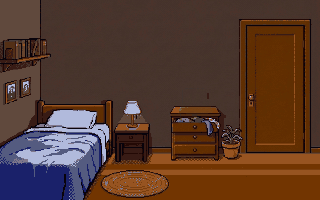
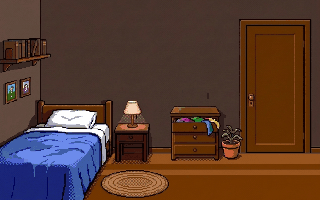
fix(intro): laptop is always the painted one, bedroom keeps its colours, slower walk, 'Front end is down'
- everyone takes the painted laptop from the dresser; the chosen item appears in the hand at that moment (no tiny item sprite)
- VGA bedroom at 192 colours with a palette that keeps small bright things (plant, lampshade, clothes); lossless across its chained edits
- walk: 110 px/s in rooms, 60 px/s in the intro, 6 fps steps; bedroom shot 15 s
- pager copy: Front end is down

Claude-Session: https://claude.ai/code/session_01KRJMM4tMmN6TsQ7ggh1rTa

diff --git a/js/screens/intro.js b/js/screens/intro.js
@@ -86,23 +86,10 @@ export function drawClothes(g, cfg, x, y) {
   for (const [mx, my, k] of HC_MARK_PIXELS) R(HC_MARK[k], 24 + (mx - mx0), -8 + (my - my0), 1, 1);   // the mark, face up
 }
 
-/** What the hero carries, alone: the pixels that differ between the hero with it and without. */
-function heldItem(cfg) {
-  const a = composeHero(cfg, 'idle'), b = composeHero({ ...cfg, hold: 'none' }, 'idle'), px = [];
-  for (let i = 0; i < HERO_W * HERO_H; i++) {
-    if (a[i * 4] !== b[i * 4] || a[i * 4 + 1] !== b[i * 4 + 1] || a[i * 4 + 2] !== b[i * 4 + 2] || a[i * 4 + 3] !== b[i * 4 + 3]) {
-      if (a[i * 4 + 3]) px.push([i % HERO_W, Math.floor(i / HERO_W), `rgb(${a[i * 4]},${a[i * 4 + 1]},${a[i * 4 + 2]})`]);
-    }
-  }
-  if (!px.length) return null;
-  const x0 = Math.min(...px.map((p) => p[0])), y1 = Math.max(...px.map((p) => p[1]));
-  return px.map(([x, y, c]) => [x - x0, y - y1, c]);                 // relative to its left edge and its bottom row
-}
-
 export function createIntroScreen(game) {
   let token = 0, assets = null, shot = 0, t = 0, out = false, done = false;
   let skip = null, onTap = null, sfx = null, titleEl = null;
-  let lastOn = false, clicked = false, heroState = null, item = null;
+  let lastOn = false, clicked = false, heroState = null;
   let fired = new Set(), sounds = [];
 
   function cut(i) { shot = i; t = 0; lastOn = false; clicked = false; heroState = null; fired = new Set(); }
@@ -175,18 +162,15 @@ export function createIntroScreen(game) {
     const h = heroAt(t);
     const e = h.walking ? exitAt(exitPlan({ standX, doorX: m.door.x, floorY: m.floorY, doorY: Number.isFinite(m.door.y) ? m.door.y : m.floorY }), t - WALK_AT) : null;
     const pile = h.outfit === 'pj' && !!m.clothes;         // on the floor until the change puts them on the hero
-    // The room is painted with a laptop on the dresser, and again without it. A hero who carries a laptop gets
-    // the painted one until they take it; any other item is drawn on the bare dresser top instead.
+    // The room is painted with a laptop on the dresser, and again without it: taking it is a cut between the two,
+    // Sierra inventory style. Whatever the hero chose to carry appears in their hand at the same moment.
     const bareRoom = assets.images.get('D_laptop_gone');
-    const painted = !!bareRoom && cfg.hold === 'laptop';
-    const onDresser = !h.holding && !painted && !!m.item && !!item;
     const bare = h.holding ? cfg : { ...cfg, hold: 'none' };
     let plate = 'D_bedroom_vga';
-    if (bareRoom && (h.holding || !painted)) { g.drawImage(bareRoom, 0, 0, 320, 200); plate = 'D_laptop_gone'; }
+    if (bareRoom && h.holding) { g.drawImage(bareRoom, 0, 0, 320, 200); plate = 'D_laptop_gone'; }
     if (e?.doorOpen) { openDoor(g, m); plate = assets.images.get('D_door_open') ? 'D_door_open' : plate; }
     showTitle(ctx, m, h.titled);
     if (pile) drawClothes(g, cfg, m.clothes.x, m.clothes.y);
-    if (onDresser) for (const [dx, dy, c] of item) { g.fillStyle = c; g.fillRect(m.item.x + dx, m.item.y + dy, 1, 1); }
     heroState = { pose: h.pose, outfit: h.outfit, x: standX, visible: h.visible, pile, holding: h.holding, doorOpen: !!e?.doorOpen, plate };
     sound('title', h.titled); sound('rustle', h.visible); sound('step', h.standing); sound('pickup', h.outfit === 'hoodie');
     sound('take', h.holding); sound('door', !!e?.doorOpen); sound('shut', !!e && !e.visible && !e.doorOpen);
@@ -227,7 +211,6 @@ export function createIntroScreen(game) {
     enter(ctx) {
       const mine = ++token;
       assets = null; out = false; done = false; cut(0);
-      item = heldItem(ctx.hero);
       sfx = createSfx(); sfx.unlock();                 // we are inside the Start tap: the one moment a phone lets sound begin
       sounds = [];
       skip = colButton({ id: 'btn-skip', long: 'Skip', short: 'Skip', onClick: finish });

diff --git a/tests/intro-timeline.test.js b/tests/intro-timeline.test.js
@@ -3,10 +3,10 @@ import { SHOTS, frameAt, nextShot, TOTAL_MS, HERO_STEPS, heroAt, FLASH_MS } from
 
 test('shots are the storyboard, in order, with its timings', () => {
   assert.deepEqual(SHOTS.map((s) => s.id), ['dark', 'help', 'asleep', 'arm', 'lit', 'message', 'misery', 'lamp', 'bedroom']);
-  assert.deepEqual(SHOTS.map((s) => s.ms), [3000, 2500, 3000, 1500, 2000, 8000, 2000, 1500, 12000]);
-  assert.equal(TOTAL_MS, 35500);
+  assert.deepEqual(SHOTS.map((s) => s.ms), [3000, 2500, 3000, 1500, 2000, 8000, 2000, 1500, 15000]);
+  assert.equal(TOTAL_MS, 38500);
   assert.equal(SHOTS[1].text, 'Help!');
-  assert.equal(SHOTS[5].text, 'Backend is down. Website is down. Database is down. Get in here! -CTO');
+  assert.equal(SHOTS[5].text, 'Backend is down. Front end is down. Database is down. Get in here! -CTO');
 });
 test('dark room flashes to black', () => { assert.equal(frameAt(0, 0).black, false); assert.equal(frameAt(0, 300).black, true); assert.equal(frameAt(0, 0).image, 'A_room_dark'); });
 test('pager LCD flashes Help! then scrolls the message', () => {
@@ -55,9 +55,10 @@ test('sampled every ms, no shot changes picture more than 4 times a second', () 
 import { exitPlan, exitAt } from '../js/intro/timeline.js';
 test('the way out: across the floor, up to the threshold, door opens, hero gone, door shuts', () => {
   const p = exitPlan({ standX: 158, doorX: 261, floorY: 178, doorY: 153 });
-  assert.ok(p.total > 1500 && p.total < 3500, String(p.total));
+  assert.ok(p.total > 2500 && p.total < 5000, String(p.total));      // 103 px at a stroll, a few steps up, the door
   const a = exitAt(p, 0); assert.deepEqual([a.x, a.y, a.visible, a.doorOpen, a.done], [158, 178, true, false, false]);
   const mid = exitAt(p, p.across / 2); assert.ok(mid.x > 158 && mid.x < 261 && mid.y === 178 && /^walk/.test(mid.pose));
+  assert.ok(p.across >= 103 / 70 * 1000, 'the walk out is a stroll: no faster than 70 px/s');
   const up = exitAt(p, p.across + p.up / 2); assert.equal(up.x, 261); assert.ok(up.y < 178 && up.y > 153);
   const open = exitAt(p, p.across + p.up + 10); assert.deepEqual([open.x, open.y, open.pose, open.visible, open.doorOpen], [261, 153, 'idle', true, true]);
   const gone = exitAt(p, p.across + p.up + p.open + 10); assert.deepEqual([gone.visible, gone.doorOpen, gone.done], [false, true, false]);

diff --git a/js/intro/timeline.js b/js/intro/timeline.js
@@ -3,7 +3,7 @@
 import { flashOn } from './pager.js';
 
 export const FLASH_MS = 500;                          // one on/off cycle; 2Hz is the ceiling for anything that flashes
-const CTO = 'Backend is down. Website is down. Database is down. Get in here! -CTO';
+const CTO = 'Backend is down. Front end is down. Database is down. Get in here! -CTO';
 
 export const SHOTS = [
   { id: 'dark', ms: 3000, image: 'A_room_dark', flash: 'black', beepOnFlash: true },
@@ -14,7 +14,7 @@ export const SHOTS = [
   { id: 'message', ms: 8000, image: 'B_nightstand', lcd: 'marquee', text: CTO },
   { id: 'misery', ms: 2000, image: 'C_misery' },
   { id: 'lamp', ms: 1500, image: 'B_lamp', alt: 'B_lamp_lit', altAt: 700, clickAt: 700 },
-  { id: 'bedroom', ms: 12000, image: 'D_bedroom_vga', hero: true },
+  { id: 'bedroom', ms: 15000, image: 'D_bedroom_vga', hero: true },
 ];
 export const TOTAL_MS = SHOTS.reduce((n, s) => n + s.ms, 0);
 
@@ -59,7 +59,7 @@ export function heroAt(tMs) {
 
 // ---- the way out of the bedroom: across the floor to the door, up to its threshold, through it ----
 // Still limited animation: the door is two stills (shut, open), the hero is there and then is not.
-const AMBLE = 140, AMBLE_UP = 70;                     // px/s: a sleepy walk
+const AMBLE = 60, AMBLE_UP = 40;                      // px/s: a sleepy walk
 const DOOR_OPEN_MS = 350, DOOR_GONE_MS = 300, DOOR_SHUT_MS = 400;
 const STEP = ['walk1', 'walk2', 'walk3', 'walk4'];
 
@@ -71,7 +71,7 @@ export function exitPlan({ standX, doorX, floorY, doorY = floorY }) {
 
 /** Where the hero is tMs into the plan. x is the sprite's left edge, y the row the feet stand on. */
 export function exitAt(p, tMs) {
-  const t = Math.max(0, tMs), flip = p.doorX < p.standX, step = STEP[Math.floor(t / 100) % 4];
+  const t = Math.max(0, tMs), flip = p.doorX < p.standX, step = STEP[Math.floor(t / 170) % 4];
   const at = (x, y, pose, visible, doorOpen, done = false) => ({ x, y, pose, flip, visible, doorOpen, done });
   if (t < p.across) return at(Math.round(p.standX + (p.doorX - p.standX) * (t / p.across)), p.floorY, step, true, false);
   let u = t - p.across;

diff --git a/tests/walk.test.js b/tests/walk.test.js
@@ -2,13 +2,14 @@ import test from 'node:test';
 import assert from 'node:assert/strict';
 import { planWalk, stepWalk, WALK_SPEED } from '../js/engine/walk.js';
 
-test('a full-room crossing takes at most 1.2 s (spec: Interface › Tap to act)', () => {
-  assert.ok(planWalk(0, 292).duration <= 1200, `${planWalk(0, 292).duration} ms`);
-  assert.ok(WALK_SPEED >= 250);
+test('a Sierra stroll, not a sprint: a full room takes about three seconds (Rick, 2026-11-11: "walking is way too fast")', () => {
+  const d = planWalk(0, 292).duration;
+  assert.ok(d >= 2300 && d <= 3500, `${d} ms`);
+  assert.ok(WALK_SPEED >= 85 && WALK_SPEED <= 125);
 });
 
 test('duration from distance and speed', () => {
-  assert.equal(planWalk(0, 120).duration, 400);
+  assert.equal(planWalk(0, 120, { speed: 300 }).duration, 400);
   assert.equal(planWalk(50, 50).duration, 0);
 });
 
@@ -17,17 +18,17 @@ test('direction and flip', () => {
   assert.equal(stepWalk(planWalk(100, 20), 10).flip, true);
 });
 
-test('pose cycles at 10 fps and x interpolates', () => {
-  const p = planWalk(0, 300); // 1000 ms at 300 px/s
+test('pose cycles at 6 fps and x interpolates', () => {
+  const p = planWalk(0, 300, { speed: 300 }); // 1000 ms at 300 px/s
   assert.equal(stepWalk(p, 0).pose, 'walk1');
-  assert.equal(stepWalk(p, 150).pose, 'walk2');
-  assert.equal(stepWalk(p, 350).pose, 'walk4');
-  assert.equal(stepWalk(p, 450).pose, 'walk1');
+  assert.equal(stepWalk(p, 200).pose, 'walk2');
+  assert.equal(stepWalk(p, 520).pose, 'walk4');
+  assert.equal(stepWalk(p, 700).pose, 'walk1');
   assert.equal(stepWalk(p, 500).x, 150);
 });
 
 test('done at the end, idle, exact target', () => {
-  const s = stepWalk(planWalk(0, 300), 1000);
+  const s = stepWalk(planWalk(0, 300, { speed: 300 }), 1000);
   assert.equal(s.done, true); assert.equal(s.pose, 'idle'); assert.equal(s.x, 300);
-  assert.equal(stepWalk(planWalk(0, 300), 5000).x, 300);
+  assert.equal(stepWalk(planWalk(0, 300, { speed: 300 }), 5000).x, 300);
 });

diff --git a/tests/e2e/intro.test.js b/tests/e2e/intro.test.js
@@ -242,8 +242,8 @@ test('the hero stands where the manifest says', async () => {
   await ctx.close();
 });
 
-test('the dresser shows the hero\'s own item: the painted laptop for a laptop, otherwise theirs on a bare top', async () => {
-  for (const [hold, before] of [['laptop', 'D_bedroom_vga'], ['duck', 'D_laptop_gone']]) {
+test('whatever the hero carries, the laptop is on the dresser until it is taken into inventory', async () => {
+  for (const hold of ['laptop', 'coffee']) {
     const ctx = await browser.newContext({ viewport: { width: 844, height: 390 }, deviceScaleFactor: 1, hasTouch: true, isMobile: true });
     const page = await ctx.newPage();
     await page.goto(server.baseURL, { waitUntil: 'load' });
@@ -254,10 +254,10 @@ test('the dresser shows the hero\'s own item: the painted laptop for a laptop, o
     if (!(await page.evaluate(() => !!window.__oq.intro.manifest.images.D_laptop_gone))) { await ctx.close(); return; }   // placeholder art has no such still
     for (let i = 0; i < 8; i++) { await page.waitForTimeout(300); await tapScene(page); }
     await page.waitForFunction(() => window.__oq.intro.hero?.visible && window.__oq.intro.hero.pose === 'situp');
-    assert.equal((await intro(page)).hero.plate, before, hold);
+    assert.equal((await intro(page)).hero.plate, 'D_bedroom_vga', hold);
     await page.waitForFunction(() => window.__oq.intro.hero?.holding === true, null, { timeout: 6000 });
     assert.equal((await intro(page)).hero.plate, 'D_laptop_gone', hold);
-    await page.waitForFunction(() => window.__oq.intro.hero?.doorOpen === true, null, { timeout: 6000 });
+    await page.waitForFunction(() => window.__oq.intro.hero?.doorOpen === true, null, { timeout: 8000 });
     assert.equal((await intro(page)).hero.plate, 'D_door_open', hold);
     await ctx.close();
   }

diff --git a/tests/intro-text.test.js b/tests/intro-text.test.js
@@ -1,7 +1,7 @@
 import test from 'node:test'; import assert from 'node:assert/strict';
 import { GLYPHS, textWidth, drawText } from '../js/intro/font5x7.js';
 import { lcdScale, flashOn, marqueeX, drawLcd } from '../js/intro/pager.js';
-const MSG = 'Backend is down. Website is down. Database is down. Get in here! -CTO';
+const MSG = 'Backend is down. Front end is down. Database is down. Get in here! -CTO';
 test('every character of both LCD strings has a glyph', () => { for (const ch of 'Help!' + MSG) assert.ok(GLYPHS[ch], JSON.stringify(ch)); });
 test('all of printable ASCII has a glyph', () => { for (let c = 32; c < 127; c++) assert.ok(GLYPHS[String.fromCharCode(c)], String(c)); });
 test('glyphs are 7 rows of 5 bits', () => { for (const g of Object.values(GLYPHS)) { assert.equal(g.length, 7); assert.ok(g.every((r) => r >= 0 && r < 32)); } });
@@ -43,7 +43,7 @@ test('marquee text is small enough to show at least eight characters at once', (
 test('static paging: one sentence per page, word-wrapped, at the largest scale that fits', () => {
   const p = lcdPages(MSG, { x: 92, y: 62, w: 136, h: 36 });
   assert.equal(p.scale, 2);
-  assert.deepEqual(p.pages, [['Backend is', 'down.'], ['Website is', 'down.'], ['Database is', 'down.'], ['Get in', 'here! -CTO']]);
+  assert.deepEqual(p.pages, [['Backend is', 'down.'], ['Front end', 'is down.'], ['Database is', 'down.'], ['Get in', 'here! -CTO']]);
   assert.deepEqual(lcdPages('Help!', { x: 92, y: 62, w: 136, h: 36 }), { scale: 4, pages: [['Help!']] });
 });
 test('static paging on a tiny LCD still returns every word', () => {

diff --git a/js/engine/walk.js b/js/engine/walk.js
@@ -1,7 +1,7 @@
 // Walk planning and stepping along the floor line. Pure functions; the screen owns time.
 
-export const WALK_FPS = 10;
-export const WALK_SPEED = 300; // logical px per second — a full 320 px room in ≈1.07 s (spec: ≤ 1.2 s)
+export const WALK_FPS = 6;
+export const WALK_SPEED = 110; // logical px per second — a Sierra stroll: a full 320 px room in about 3 s
 const FRAMES = ['walk1', 'walk2', 'walk3', 'walk4'];
 
 /** @returns {{ fromX: number, toX: number, dir: 1|-1, duration: number }} duration in ms (0 when already there) */

diff --git a/index.html b/index.html
@@ -23,6 +23,6 @@
   <div class="phone" aria-hidden="true"></div>
   <div>Turn your phone sideways to play</div>
 </div>
-<script type="module" src="js/game.js?v=8"></script>
+<script type="module" src="js/game.js?v=9"></script>
 </body>
 </html>

diff --git a/tools/build_intro.py b/tools/build_intro.py
@@ -20,7 +20,9 @@ SOURCES = PLATES + list(EDITS)
 OPTIONAL = {'D_laptop_gone': ['D_bedroom_vga'], 'D_door_open': ['D_laptop_gone', 'D_bedroom_vga']}
 DERIVED = ['C_awake_lit', 'B_lamp_lit']
 MAX_DRIFT = 0.5                     # an edit may remove an object and add a hand; past half the frame it is another picture
-COLOURS = 32
+COLOURS = 32                        # the EGA-style shots
+COLOURS_FOR = {'D_bedroom_vga': 192}   # the VGA bedroom keeps its full palette: at 32 a green plant or a yellow lampshade greys out
+CHANGE_COLOURS_FOR = {'D_bedroom_vga': 32}   # 192 + two chained edits of 32 still fit one 256-colour file
 DEFAULTS = {'wall': {'x': 24, 'y': 14, 'w': 232, 'h': 44}, 'bed': {'x': 60, 'y': 96}, 'stand': {'x': 90}, 'door': {'x': 286}, 'floorY': 176,
             'clothes': {'x': 126, 'y': 184}, 'item': {'x': 200, 'y': 150}, 'doorway': {'x': 272, 'y': 60, 'w': 56, 'h': 116}}
 LCD_MIN = (40, 10)                  # anything smaller is a stray green speck, not the pager's LCD
@@ -48,7 +50,24 @@ def downsample(img):
 
 
 def quantise(img, colours=COLOURS):
-    return img.convert('RGB').quantize(colours, method=Image.MEDIANCUT, dither=Image.NONE).convert('RGB')
+    """Median cut. Past 64 colours, in two passes: median cut spends its palette on the big areas and averages
+    the small bright things (a green plant, a yellow lampshade) into the browns around them, so a quarter of the
+    palette is held back and handed out, one colour at a time, to whichever pixel is still furthest off."""
+    img = img.convert('RGB')
+    if colours <= 64: return img.quantize(colours, method=Image.MEDIANCUT, dither=Image.NONE).convert('RGB')
+    spare = colours // 4
+    first = img.quantize(colours - spare, method=Image.MEDIANCUT, dither=Image.NONE)
+    a = np.asarray(img).astype(np.int32); flat = a.reshape(-1, 3)
+    pal = np.asarray(first.getpalette()[:(colours - spare) * 3], np.int32).reshape(-1, 3)
+    idx = np.concatenate([((flat[i:i + 8000, None, :] - pal[None]) ** 2).sum(axis=2).argmin(axis=1) for i in range(0, len(flat), 8000)])
+    dist = ((flat - pal[idx]) ** 2).sum(axis=1)
+    for _ in range(spare):                          # each spare colour goes to the pixel that is furthest from its nearest
+        worst = int(dist.argmax())
+        if dist[worst] <= 3 * 8 * 8: break
+        pal = np.vstack([pal, flat[worst]])
+        d = ((flat - flat[worst]) ** 2).sum(axis=1); closer = d < dist
+        idx[closer] = len(pal) - 1; dist[closer] = d[closer]
+    return Image.fromarray(pal[idx].reshape(a.shape).astype(np.uint8), 'RGB')
 
 
 MIN_CHANGE = 12                     # px: a changed patch smaller than this, away from any real change, is generator noise
@@ -281,9 +300,11 @@ def build(src, out, placeholders=False, logo_src=LOGO_SRC):
             fake.append(n)
     for n in PLATES:
         if n in fake: raw[n] = placeholder(n)
-        done[n] = quantise(raw[n])
+        done[n] = quantise(raw[n], COLOURS_FOR.get(n, COLOURS))
     refs = {n: raw[n] for n in PLATES}
+    root = {n: n for n in PLATES}                   # which plate each still descends from
     def make_edit(n, plate):
+        root[n] = root.get(plate, plate)
         # compare in the generator's own colours (refs[]), but take unchanged pixels from the finished plate
         refs[n] = snap_to_plate(raw[n], refs[plate])[0]
         img, frac = snap_to_plate(raw[n], refs[plate], base=done[plate])
@@ -294,7 +315,7 @@ def build(src, out, placeholders=False, logo_src=LOGO_SRC):
         if diff.any():                              # the change gets its own small palette, so a tiny edit keeps its colours
             ys, xs = np.nonzero(diff)
             strip = Image.fromarray(a[diff].reshape(1, -1, 3), 'RGB')
-            a[diff] = np.asarray(quantise(strip, CHANGE_COLOURS)).reshape(-1, 3)
+            a[diff] = np.asarray(quantise(strip, CHANGE_COLOURS_FOR.get(root[n], CHANGE_COLOURS))).reshape(-1, 3)
             print(f'  {n}: {frac:.1%} of the frame changed, x {xs.min()}-{xs.max()}, y {ys.min()}-{ys.max()}')
         done[n] = Image.fromarray(a, 'RGB')
 
@@ -318,7 +339,8 @@ def build(src, out, placeholders=False, logo_src=LOGO_SRC):
     images = {}
     for n, im in done.items():
         images[n] = f'{n}.png'
-        im.convert('P', palette=Image.ADAPTIVE, colors=256).save(os.path.join(out, images[n]), optimize=True)
+        exact = len(im.convert('RGB').getcolors(1 << 20) or []) <= 256     # a palette file only when it loses nothing:
+        (im.convert('P', palette=Image.ADAPTIVE, colors=256) if exact else im.convert('RGB')).save(os.path.join(out, images[n]), optimize=True)   # a requantised edit would stop matching its plate
 
     lcd = find_lcd(done['B_nightstand'])
     if not lcd:

diff --git a/tools/tests/test_build_intro.py b/tools/tests/test_build_intro.py
@@ -289,3 +289,18 @@ def test_laptop_gone_and_door_open_chain(tmp_path):
     os.remove(src / 'D_laptop_gone.png')                                # without it, the door edit is cut against the bedroom itself
     m = bi.build(str(src), out)
     assert 'D_laptop_gone' not in m['images'] and 'D_door_open' in m['images']
+
+
+def test_the_vga_bedroom_keeps_its_small_colours(tmp_path):
+    """A green plant and a yellow lampshade are a few dozen pixels in a brown room: 32 colours greys them out."""
+    src = _real_src(tmp_path); rng = np.random.default_rng(5)
+    a = np.zeros((400, 640, 3), np.uint8)
+    for i in range(40): a[i * 10:(i + 1) * 10] = (60 + i * 3, 36 + i * 2, 20 + i)              # many browns
+    a[:, 0:200] = rng.integers(20, 200, (400, 200, 3), dtype=np.uint8)                          # a busy area eating palette slots
+    a[300:308, 400:408] = (60, 150, 60); a[100:108, 300:308] = (230, 200, 120)                 # plant, lampshade: 16 px each at game size
+    Image.fromarray(a, 'RGB').save(src / 'D_bedroom_vga.png')
+    out = str(tmp_path / 'out'); m = bi.build(str(src), out)
+    px = _px(out, m, 'D_bedroom_vga').astype(int)
+    r, g, b = px[152, 202]; assert g > r + 50 and g > b + 50, ('plant', r, g, b)
+    r, g, b = px[52, 152]; assert r > 200 and g > 170 and b < 150, ('shade', r, g, b)
+    assert np.abs(px - np.asarray(bi.downsample(Image.open(src / 'D_bedroom_vga.png'))).astype(int)).max() <= 48      # no colour anywhere is far off

diff --git a/docs/superpowers/specs/2026-11-10-sci-adventure-design.md b/docs/superpowers/specs/2026-11-10-sci-adventure-design.md
@@ -107,7 +107,7 @@ Three of the five chapters per run, dealt when the player taps START (so only th
 - **Layout in landscape** (my call, given Rick's landscape decision): status bar across the full width at the top; the scene centred below it; the black letterbox columns either side become the **thumb zones** — the icon bar stacks vertically in the right column (Look / Use / Help), the mute toggle sits in the left. Both thumbs hold the phone, both columns are under them. Message windows open **over the scene**, SCI-style (white, black border, drop shadow), centred, up to five lines, and prompt buttons stack inside the window; on a 375-px-tall phone a window holds three lines and paginates with a tap. Hotspots near the middle of the scene are a short reach from either thumb. Product screens take over the scene box and show their prompts the same way. The right-hand icon column must fit at a 667×375 viewport (three 44-px icons in a 50-px column); if a viewport is too narrow for the columns the icon bar falls back to a row under the scene.
 - **Status bar** (top, DOM): `Observability Quest` left, `Score: 120 of 300` right, in the small pixel font on a light grey bar — the SCI0/SCI1 look.
 - **Icon bar**: SCI1-style icons — **Look** (eye), **Use** (hand), **Help** (?) — in the right thumb column. Default mode is Use; tapping Look then a hotspot gives a descriptive line instead of acting, and the mode returns to Use. Help explains the three icons in one window. No inventory icon in v2.0 (a pager and a coffee appear as *props*, not inventory).
-- **Tap to act**: tapping anywhere walkable makes the hero walk there; tapping a hotspot walks to it and triggers it. Walkable area is a floor line per room (one y, min/max x); hotspots have a stand point. Walking takes ≤ 1.2 s across the whole room.
+- **Tap to act**: tapping anywhere walkable makes the hero walk there; tapping a hotspot walks to it and triggers it. Walkable area is a floor line per room (one y, min/max x); hotspots have a stand point. Walking is a Sierra stroll: about three seconds across the whole room (Rick, 2026-11-11 — 1.2 s read as far too fast).
 - **Message windows**: the windows described above carry narrator and dialogue text; typewriter at 25 ms/char; tap to complete, tap to dismiss. Narrator lines carry no prefix. The hero's own lines, spoken in that chapter's class, are prefixed with the class name (`SRE:`), and the script addresses the player in the second person ("you let the renewal lapse"). Other characters in a room (the manager who runs in, Einar on the phone) are prefixed with their name and need no sprite — they speak from off-screen or from a prop.
 - **Prompts**: inside product screens and in some windows, choices appear as bracketed buttons: `[Run BubbleUp on slow sessions]`. Max three. One right, one plausible, one silly.
 - **Feedback**: right → short result animation and points (see *Scoring*); wrong → the narrator's jab, no points, and the tried prompt greys out. Nothing ever subtracts.
@@ -193,10 +193,10 @@ The intro follows `docs/intro-storyboard.md` (Rick, 2026-11-11), which supersede
 | 3 | Sleepy face, drool; a bleary eye cracks open | plate C → C with one eyelid changed | one cut | 3 |
 | 4 | Arm at the pager | plate B with an arm added | nothing | 1.5 |
 | 5 | Face looking at the pager, lit by its flashing light | C, eyes half open | two-state green palette swap | 2 |
-| 6 | Pager, scrolling: **Backend is down. Website is down. Database is down. Get in here! -CTO** | plate B | marquee | 8 |
+| 6 | Pager, scrolling: **Backend is down. Front end is down. Database is down. Get in here! -CTO** | plate B | marquee | 8 |
 | 7 | Misery and hopelessness | C, brows and mouth changed | nothing | 2 |
 | 8 | Hand turns on the lamp | plate B with a hand on the lamp chain | palette swaps to warm light after a beat | 1.5 |
-| 9 | VGA bedroom, **Observability Quest I: So you want to be on-call?** on the wall; theme; the hero gets up in pyjamas; their jeans, Honeycomb hoodie and shoes lie on the floor (drawn in their own colours) and vanish from it as the hero flashes into them; the item they carry waits on the dresser and jumps to their hand once they are dressed, like an inventory pick-up; a dresser stands half open with clothes spilling out; the hero walks to the bedroom door, it opens, they go through, it shuts | plate D (+ optional door-open edit) + hero sprite | sprite animation; the door is a two-still cut; the room holds ~3 s on the title first, and every action has a sound | 12 |
+| 9 | VGA bedroom, **Observability Quest I: So you want to be on-call?** on the wall; theme; the hero gets up in pyjamas; their jeans, Honeycomb hoodie and shoes lie on the floor (drawn in their own colours) and vanish from it as the hero flashes into them; the item they carry waits on the dresser and jumps to their hand once they are dressed, like an inventory pick-up; a dresser stands half open with clothes spilling out; the hero walks to the bedroom door, it opens, they go through, it shuts | plate D (+ optional door-open edit) + hero sprite | sprite animation; the door is a two-still cut; the room holds ~3 s on the title first, and every action has a sound | 15 |
 
 - **Art**: shots 1–8 are **generated** in Firefly/Gemini to match the look of the narrator portraits (Rick's call 2026-11-11, after code-drawn faces fell short): one generic sleeper, half in shadow, the same for every player; the player's own hero appears in shot 9. Four plates and five single-change edits of them (`briefs/intro-shots-brief.md`); the tooling keeps only the pixels an edit changed, as with the portrait frames, so recycled stills stay pixel-identical outside the change. The pager is generated with a **blank** LCD and its text ("Help!", the scrolling CTO message) is drawn in code with a built-in pixel font so it is crisp. Shot 9's bedroom is one generated VGA background with an empty wall; the title on the wall is the app's existing **Observability Quest wordmark** (Rick, 2026-11-11) — the letters only, cut from the title screen without its starscape, rule or blue panel — extended to **OBSERVABILITY QUEST I** with the wordmark's own letter I set after QUEST — and the subtitle ("So you want to be on-call?") lettered under it in VT323. Code-drawn placeholders stand in until the images arrive.
 - **Bedroom (Rick, 2026-11-11)**: furnished and lived in; the hoodie is **Honeycomb-branded** — a 4×4-pixel reduction of the official logomark high on the chest of every hoodie (and on the heap on the floor), in brand colours, derived from `assets/hc_logomark.png`, never generated.

diff --git a/docs/backlog.md b/docs/backlog.md
@@ -84,3 +84,9 @@ block on. Test the restyle under `.hs-form` on a real phone.
 - Character sheet scales up on big windows now; the thumb-column buttons and the name sheet do not yet.
 - Title screen is still a text placeholder; use the wordmark (and title art) there in the title sub-project.
 - Furnished bedroom, `D_laptop_gone` and `D_door_open` landed 2026-11-11 and are placed from the hand-back's measurements; awaiting Rick's sign-off. `D_laptop_gone` keeps a faint mark on the wall above the dresser — redo that edit if it shows on a phone.
+
+## From Rick's play-through, 2026-11-11 (for the room-engine sub-project)
+- **Profile walk**: Rick likes Sierra's side-on walking figure. The hero walks facing the camera today (leg and arm offsets on the front view). Add a profile view to `tools/hero_gen.py` + the JS port (all hair styles, beard, glasses, held item, hoodie mark on the visible side), 4–6 walk frames, mirrored for left; front view stays for standing and the sheet. Show Rick a contact sheet before porting.
+- **Walk and hand cursors**: Sierra's cursor is a walking figure that becomes a hand over things you can use. Phones have no hover, so: on desktop (`@media (hover: hover)`) use those two cursors over floor and hotspots; on touch, show the hand as a brief badge on a hotspot when it is tapped (and optionally pulse hotspots on entering a room), and a small walking-figure marker where a floor tap lands.
+- Walk speed is now 110 px/s in rooms (a full room in ~3 s) and 60 px/s in the intro. The spec's "≤ 1.2 s per room" came from booth pacing; revisit if three seconds per crossing makes a three-chapter run too long.
+- Everyone takes the painted laptop from the dresser (inventory); the item chosen on the sheet appears in the hero's hand at that moment. `item` in the overrides is unused for now.
